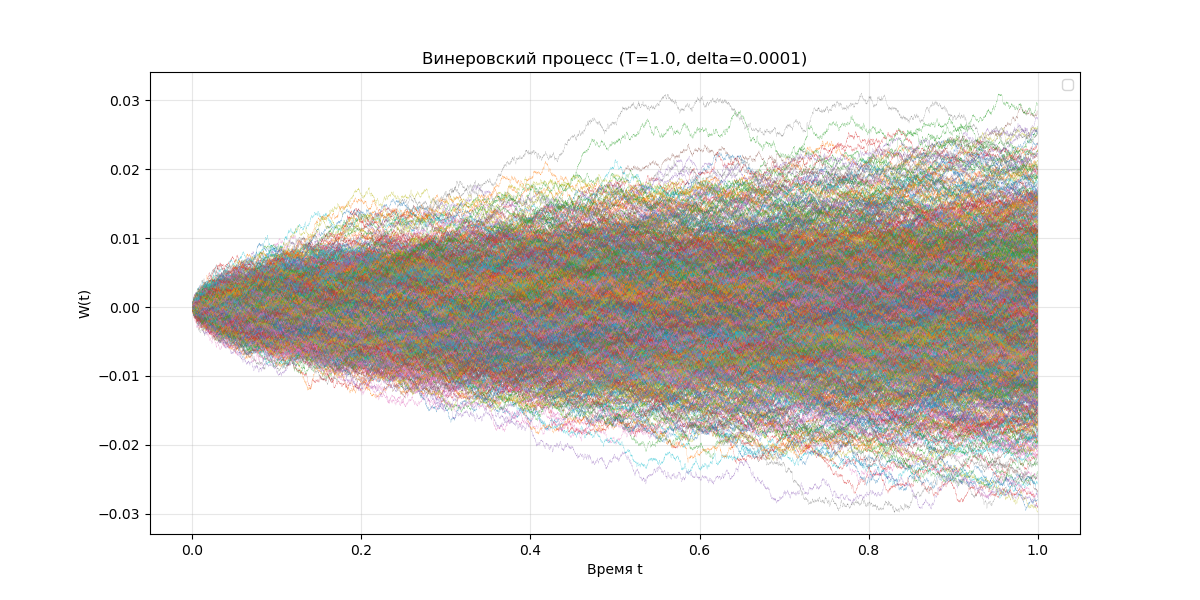
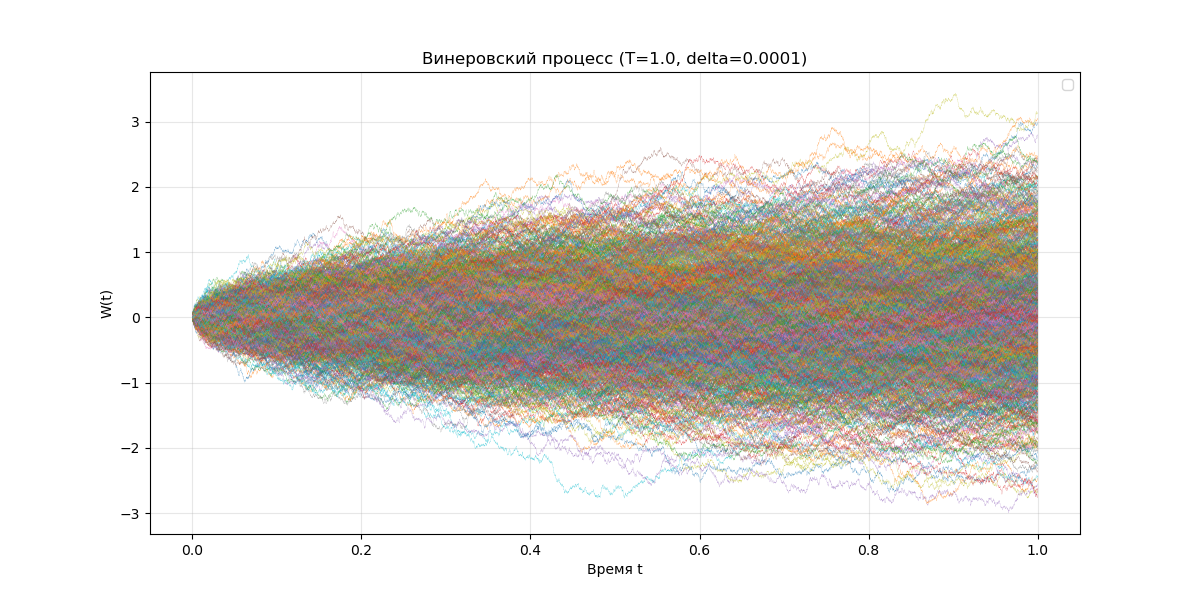
fix variation

diff --git a/task2/wiener.py b/task2/wiener.py
@@ -7,7 +7,7 @@ def gen_wiener_proc(T, delta):
 
     time_grid = np.linspace(0, T, time_steps_num)
 
-    dW = np.random.normal(0, delta, time_steps_num) 
+    dW = np.random.normal(0, np.sqrt(delta), time_steps_num)
 
     trajectorie = np.zeros(time_steps_num) # including t= 0
     
